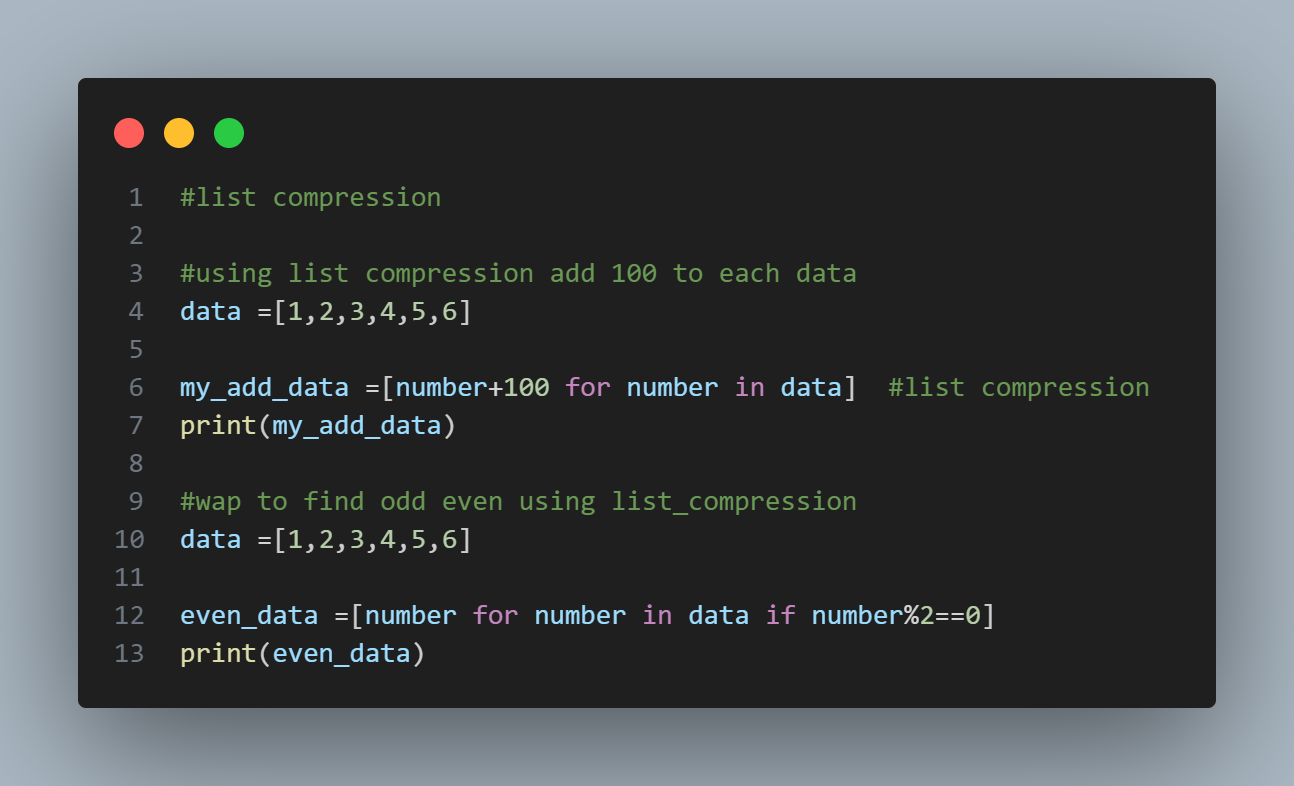
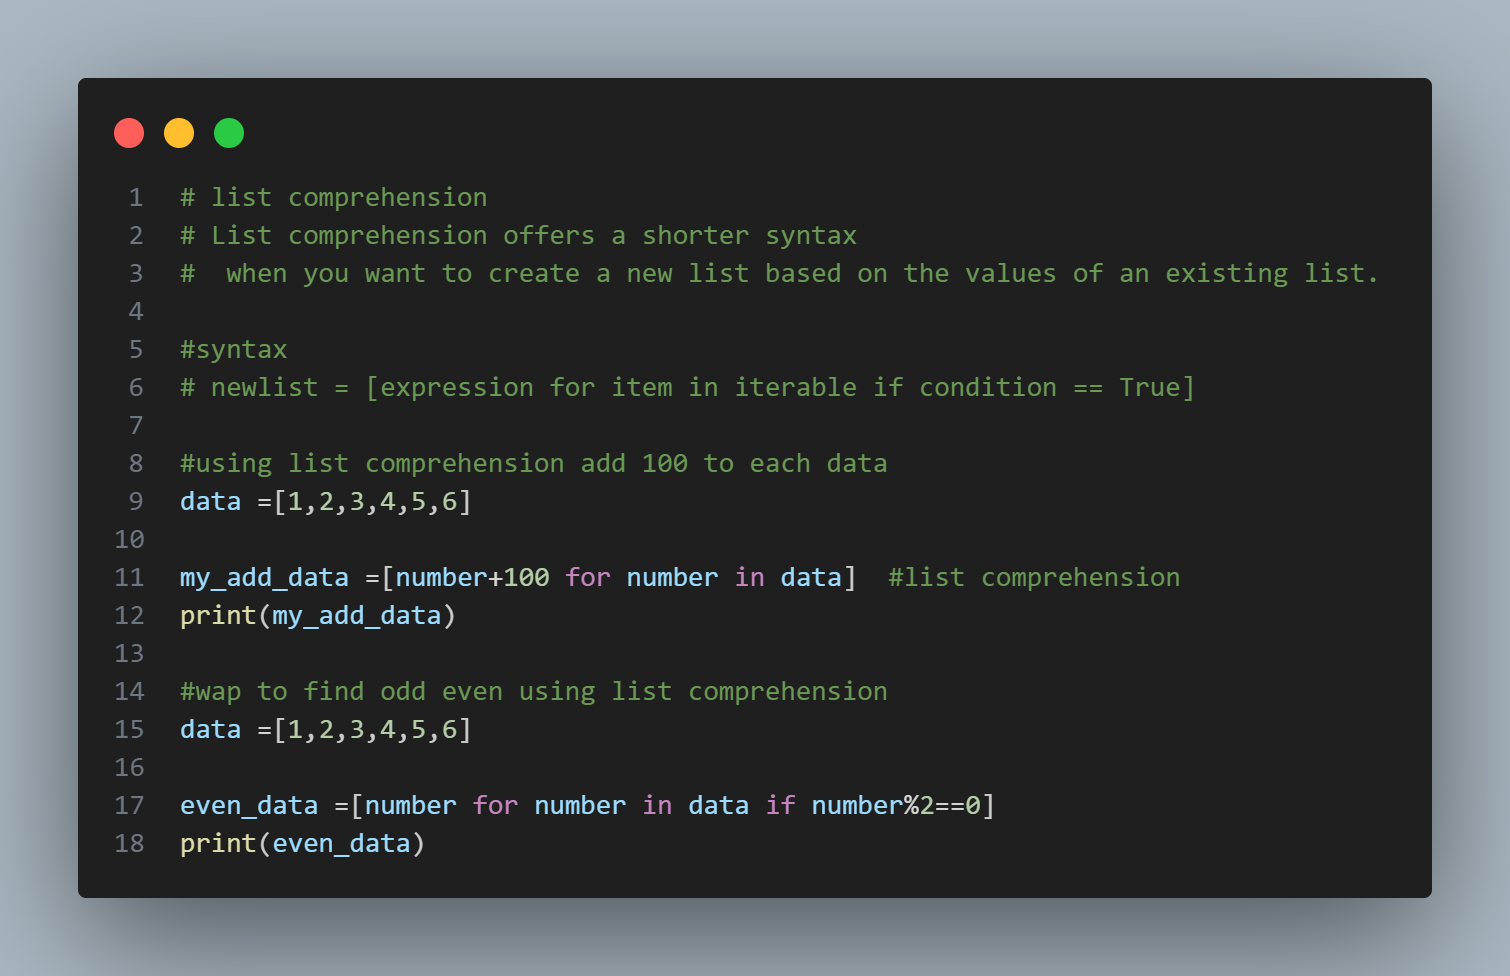
update

diff --git a/33-list comprehension.py b/33-list comprehension.py
@@ -1,0 +1,18 @@
+# list comprehension
+# List comprehension offers a shorter syntax
+#  when you want to create a new list based on the values of an existing list.
+
+#syntax
+# newlist = [expression for item in iterable if condition == True]
+
+#using list comprehension add 100 to each data
+data =[1,2,3,4,5,6]
+
+my_add_data =[number+100 for number in data]  #list comprehension
+print(my_add_data)
+
+#wap to find odd even using list comprehension
+data =[1,2,3,4,5,6]
+
+even_data =[number for number in data if number%2==0]
+print(even_data)
